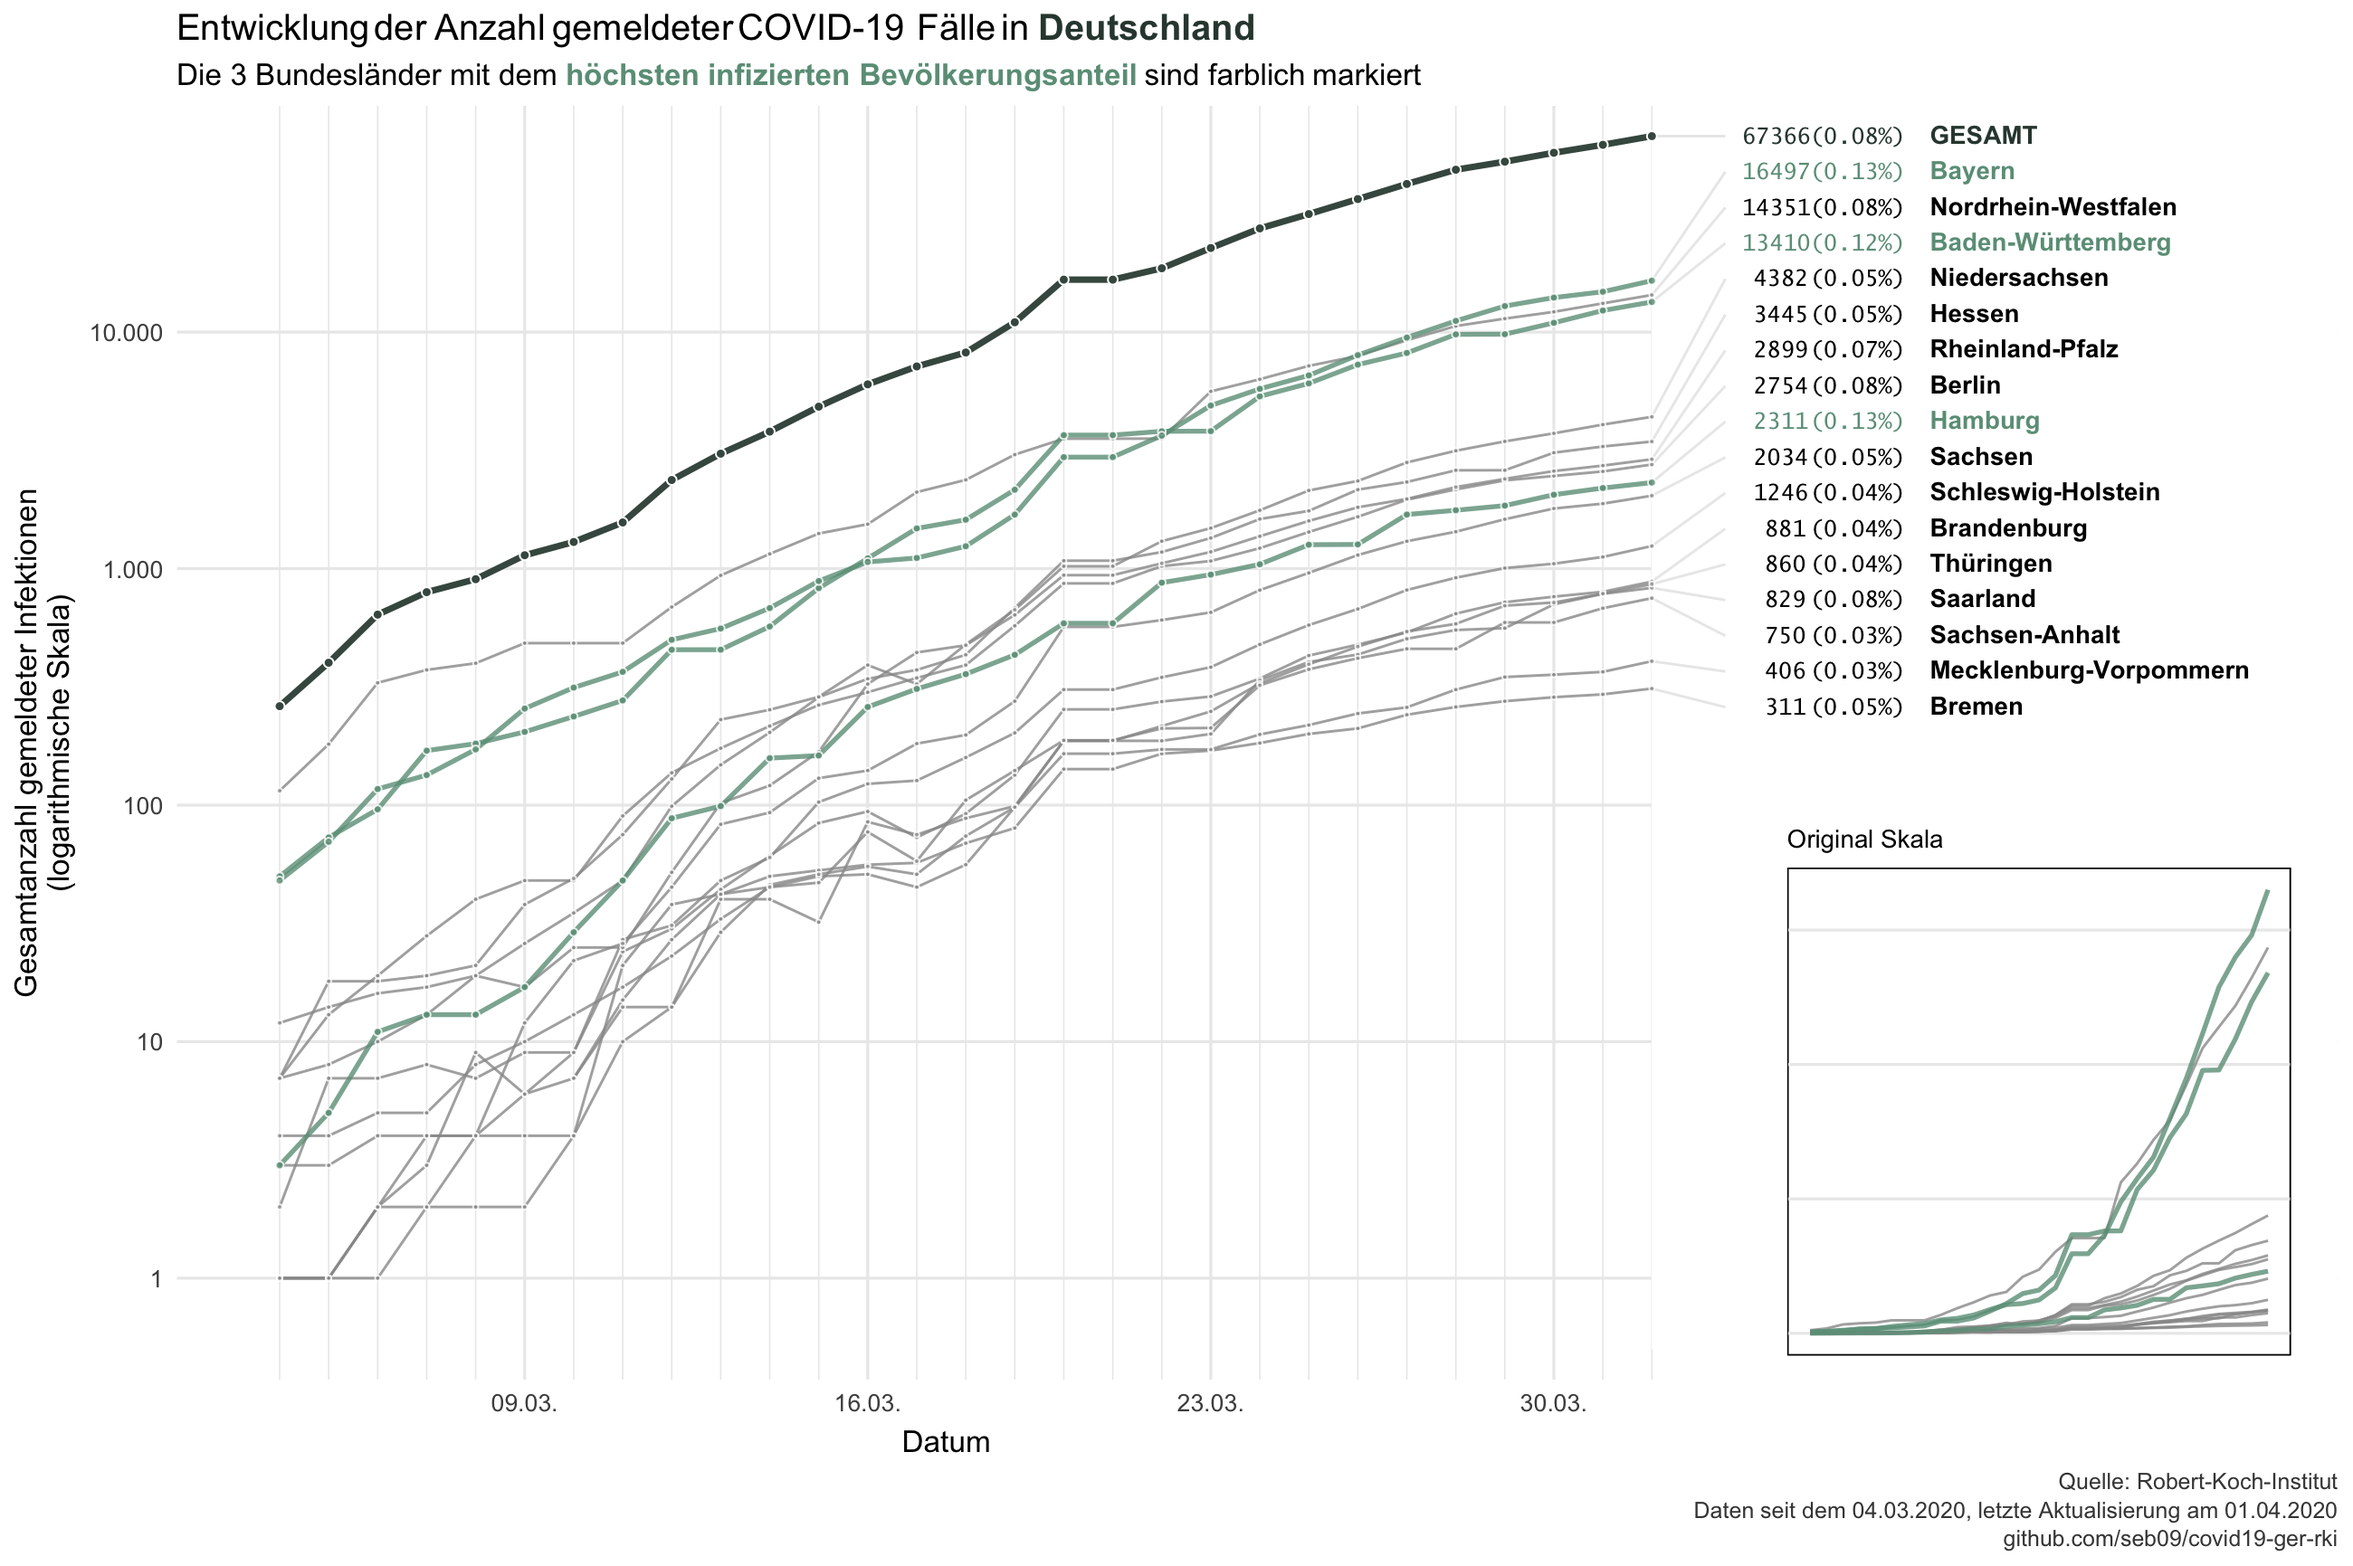
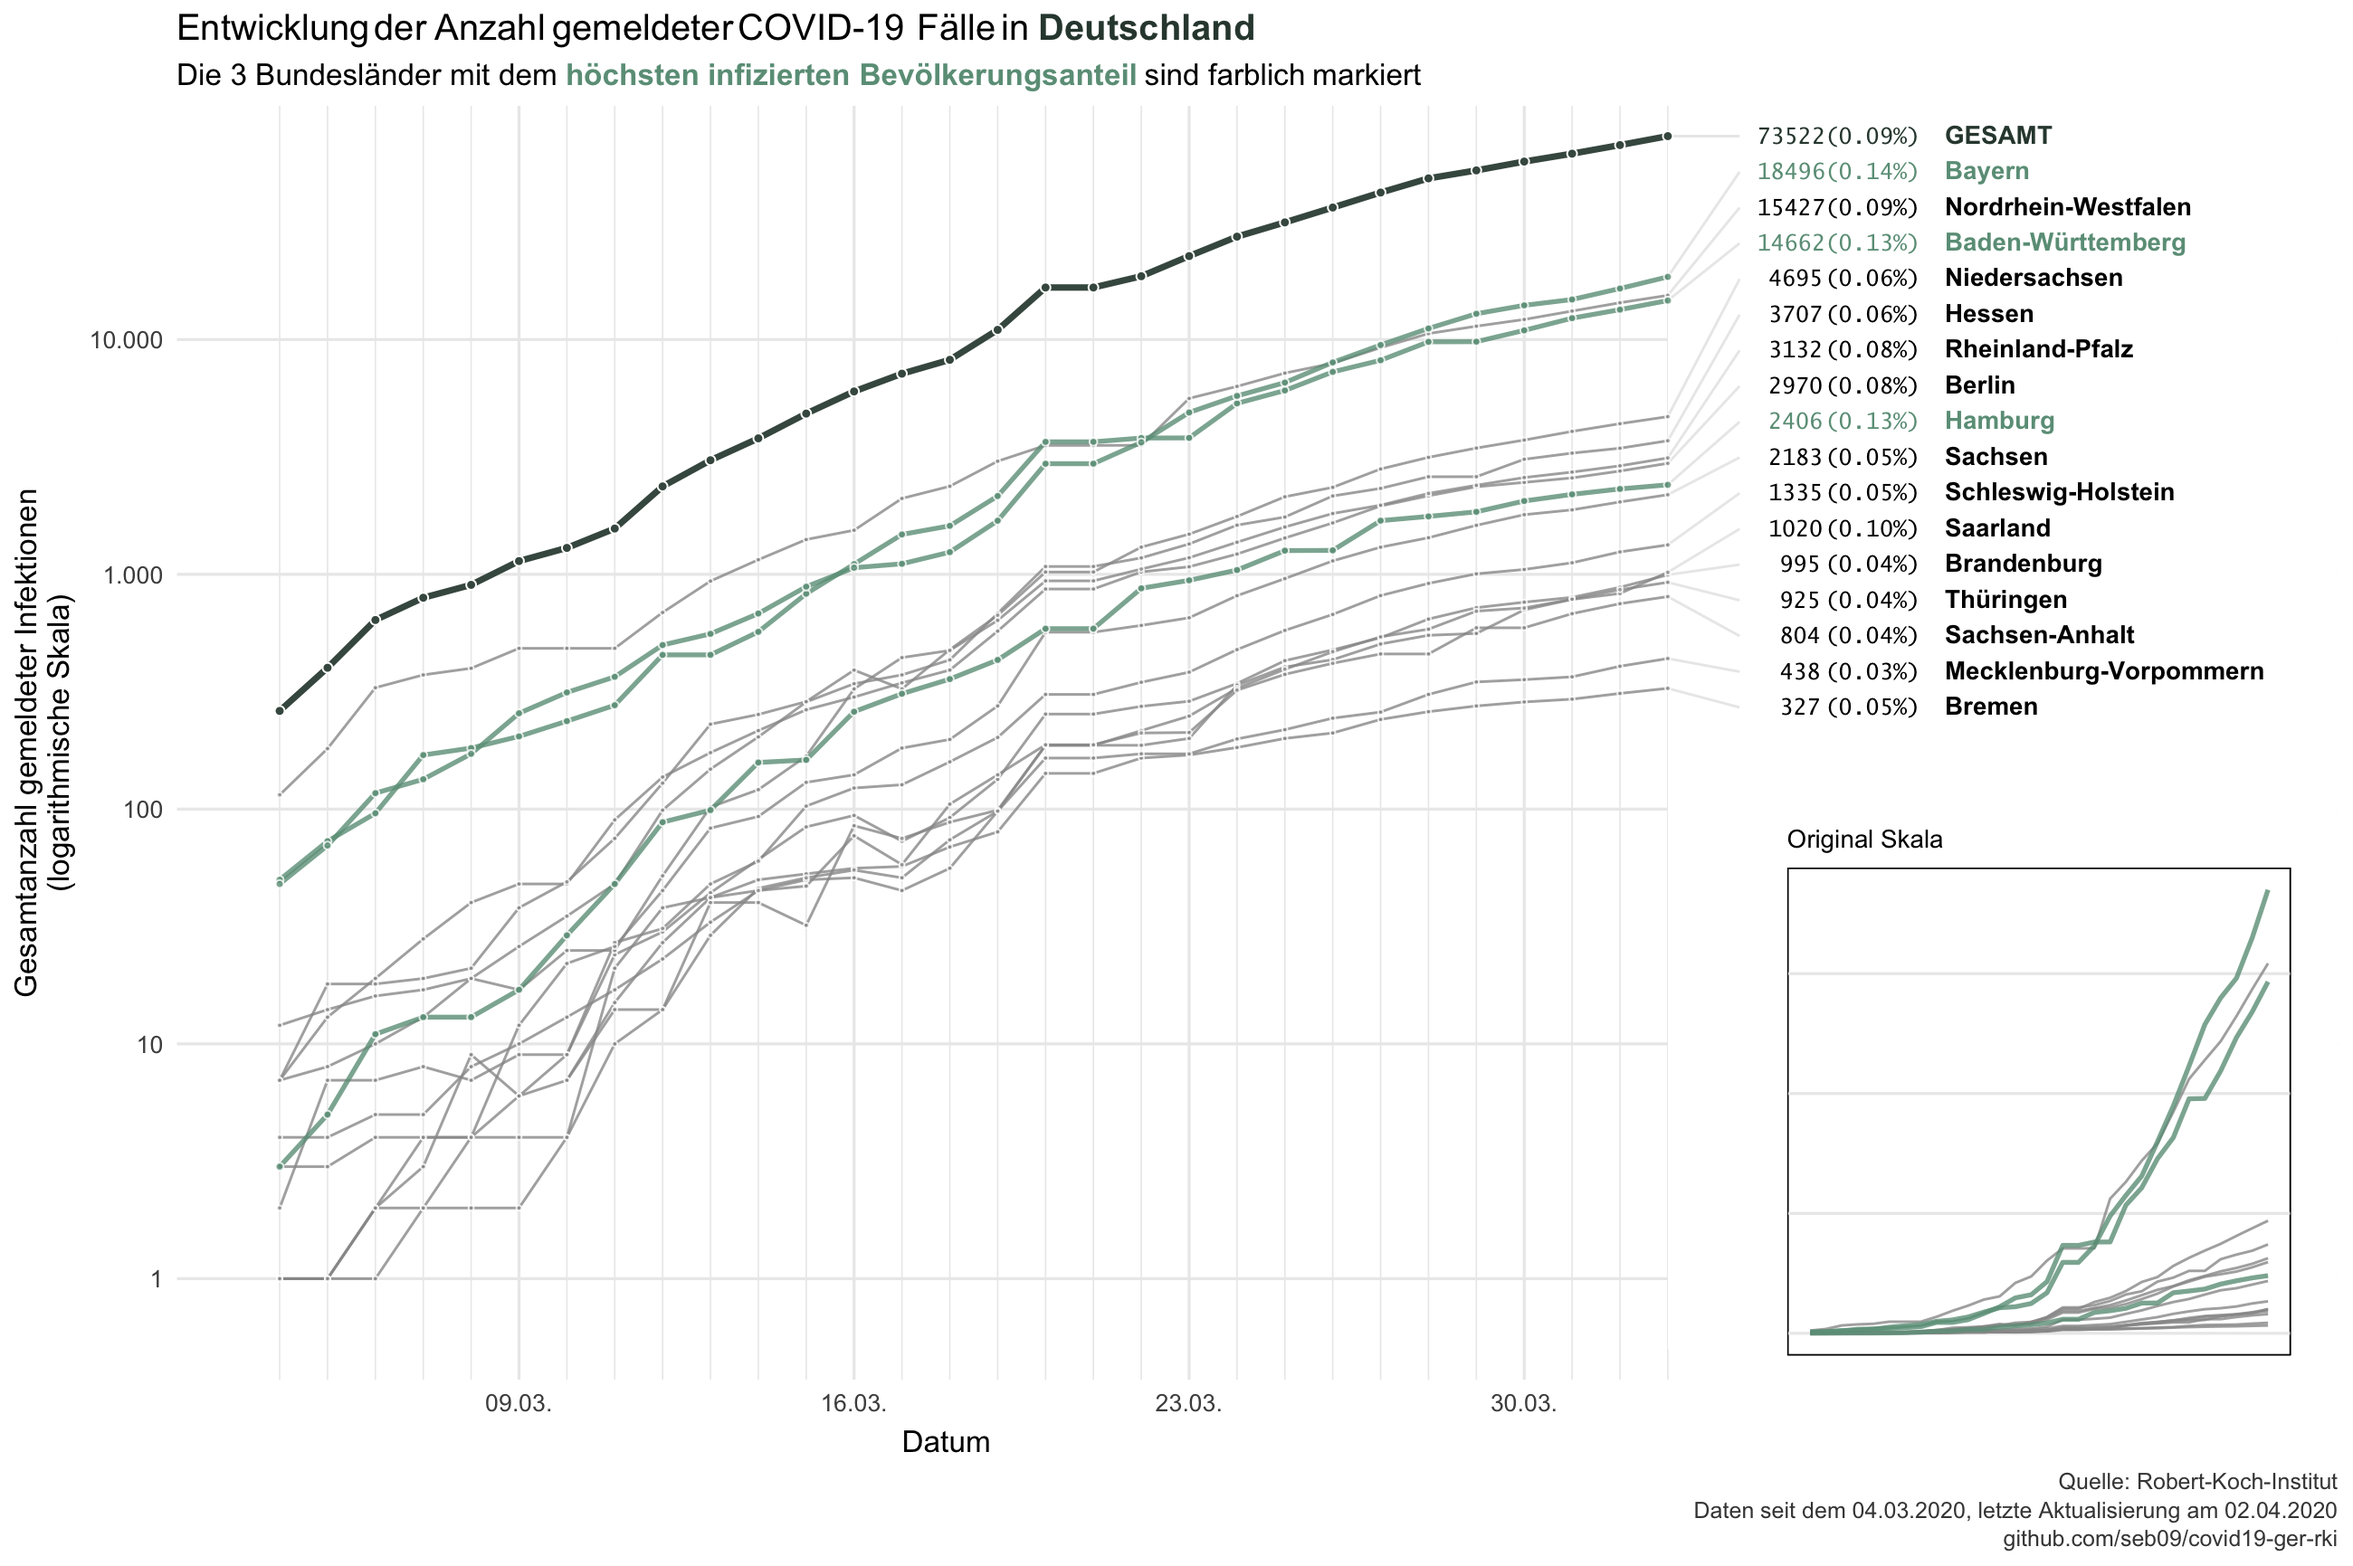
daily update 1

diff --git a/README.md b/README.md
@@ -1,6 +1,6 @@
 Data from the Robert-Koch-Institut on COVID-19 in Germany
 ================
-Last update: 2020-04-01
+Last update: 2020-04-02
 
 This repository contains data on reported COVID-19 cases in Germany and
 its federal states that is published daily by the Robert-Koch-Institut
@@ -14,26 +14,26 @@ corona_rki %>%
   print(n = 16)
 ```
 
-    ## # A tibble: 458 x 6
+    ## # A tibble: 474 x 6
     ##    Datum      Bundesland      Fallzahl Todeszahl Fallzahl_neu Todeszahl_neu
     ##    <date>     <chr>              <dbl>     <dbl>        <dbl>         <dbl>
-    ##  1 2020-04-01 Baden-Württemb…    13410       197         1076            32
-    ##  2 2020-04-01 Bayern             16497       225         1687            63
-    ##  3 2020-04-01 Berlin              2754        16          179             3
-    ##  4 2020-04-01 Brandenburg          881         4           83             2
-    ##  5 2020-04-01 Bremen               311         5           17             1
-    ##  6 2020-04-01 Hamburg             2311        14          120             5
-    ##  7 2020-04-01 Hessen              3445        21          162             4
-    ##  8 2020-04-01 Mecklenburg-Vo…      406         3           40             2
-    ##  9 2020-04-01 Niedersachsen       4382        42          319             8
-    ## 10 2020-04-01 Nordrhein-West…    14351       134         1126            17
-    ## 11 2020-04-01 Rheinland-Pfalz     2899        23          173             4
-    ## 12 2020-04-01 Saarland             829         8           47             1
-    ## 13 2020-04-01 Sachsen             2034        17          152             5
-    ## 14 2020-04-01 Sachsen-Anhalt       750         7           70             1
-    ## 15 2020-04-01 Schleswig-Hols…     1246        10          126             1
-    ## 16 2020-04-01 Thüringen            860         6           76             0
-    ## # … with 442 more rows
+    ##  1 2020-04-02 Baden-Württemb…    14662       241         1252            44
+    ##  2 2020-04-02 Bayern             18496       268         1999            43
+    ##  3 2020-04-02 Berlin              2970        19          216             3
+    ##  4 2020-04-02 Brandenburg          995         7          114             3
+    ##  5 2020-04-02 Bremen               327         6           16             1
+    ##  6 2020-04-02 Hamburg             2406        14           95             0
+    ##  7 2020-04-02 Hessen              3707        27          262             6
+    ##  8 2020-04-02 Mecklenburg-Vo…      438         3           32             0
+    ##  9 2020-04-02 Niedersachsen       4695        45          313             3
+    ## 10 2020-04-02 Nordrhein-West…    15427       161         1076            27
+    ## 11 2020-04-02 Rheinland-Pfalz     3132        26          233             3
+    ## 12 2020-04-02 Saarland            1020        11          191             3
+    ## 13 2020-04-02 Sachsen             2183        18          149             1
+    ## 14 2020-04-02 Sachsen-Anhalt       804         8           54             1
+    ## 15 2020-04-02 Schleswig-Hols…     1335        11           89             1
+    ## 16 2020-04-02 Thüringen            925         7           65             1
+    ## # … with 458 more rows
 
 Data is downloaded each day at 11am from the [website of the
 RKI](https://www.rki.de/DE/Content/InfAZ/N/Neuartiges_Coronavirus/Fallzahlen.html)
